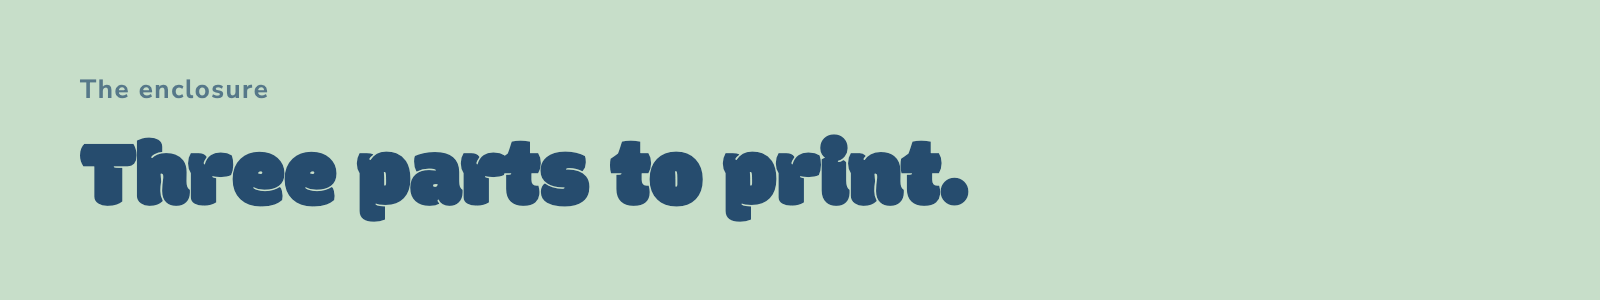
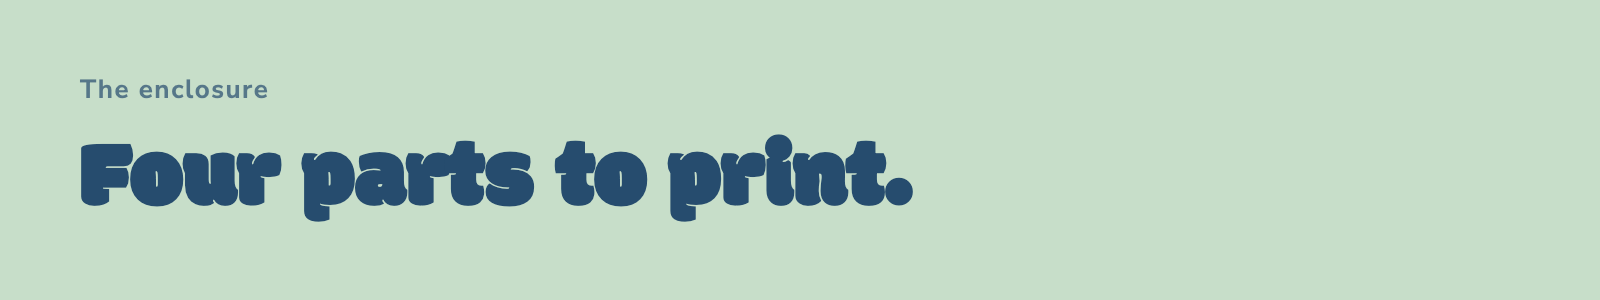
feat(prototype-v4): add the volume button, and say four parts everywhere
The part is a single object, `vol-button`, 2788 triangles, 28 x 15 x 28
mm: it is the cap that reaches the board's volume switch through the
shell. Checked before committing, because Shapr3D has already exported
the whole assembly into files that were meant to hold one body.

Adding it made the repository say "three parts" in four places, one of
them a rendered image. The table gains a row, the two sentences and the
banner now say four. The banner is re-rendered from the same source as
the others, so nothing else about it moves.

It ships as 3MF only, where the three other parts also have an STL and a
GLB. That is stated in the table rather than left for the reader to
notice.

Changed region(s): [[0.0312, 0.45, 0.625, 0.75]]

diff --git a/README.md b/README.md
@@ -1,6 +1,6 @@
-![The Open Music Box — your child puts a card down, the story starts.](docs/images/hero.png)
+![The Open Music Box: your child puts a card down, the story starts.](docs/images/hero.png)
 
-[![Join the Discord — questions, print results, ideas for the next version.](docs/images/discord.png)](https://discord.gg/5sUnQ553Af)
+[![Join the Discord: questions, print results, ideas for the next version.](docs/images/discord.png)](https://discord.gg/5sUnQ553Af)
 
 The MusicBox is a screen-free audio player for children. The child places an NFC card on top and the story or the music starts. No subscription, no account, no screen. Your music and your stories stay yours, on standard NFC cards, and every part can be replaced.
 
@@ -10,36 +10,37 @@ This is the enclosure of the V4 prototype of The Open Music Box project, designe
   <img src="docs/images/musicbox-loop.gif" alt="The MusicBox, card going in and out" width="420">
 </p>
 
-![How it works — place the card, the story starts.](docs/images/how-it-works.png)
+![How it works: place the card, the story starts.](docs/images/how-it-works.png)
 
 From your phone, you add your music and your stories, you build playlists and you link each one to an NFC card. Then the child takes over: place a card on the MusicBox and it plays, take it off and it stops. Four buttons for volume and tracks, nothing else to learn. It works without internet, in the bedroom, in the car or at the grandparents.
 
-![The enclosure — three parts to print.](docs/images/the-enclosure.png)
+![The enclosure: four parts to print.](docs/images/the-enclosure.png)
 
-The V4 enclosure is designed around the HermitX development board: an all-in-one ESP32-S3 board that ships with the NFC antenna, a 3 W speaker and an NTAG215 card. It prints in three parts, provided as STL and 3MF:
+The V4 enclosure is designed around the HermitX development board: an all-in-one ESP32-S3 board that ships with the NFC antenna, a 3 W speaker and an NTAG215 card. It prints in four parts:
 
 | Part | Files | What it is |
 |---|---|---|
 | **Body** | `TMB prototype V4 - body.{stl,3mf,glb}` | The main shell that holds the board and the speaker |
 | **Top** | `TMB prototype V4 - top.{stl,3mf,step,glb}` | The lid with the card slot |
 | **Insert** | `TMB prototype V4 - insert.{stl,3mf,glb}` | The card holder |
+| **Volume button** | `TMB prototype V4 - vol.3mf` | The cap that reaches the board’s volume switch through the shell. 3MF only for now, no STL |
 
 For the body, print the 3MF rather than the STL. It is a multi-material file: the side window is meant to be printed in a transparent filament so the light of the LEDs shows through, and the inner fins in a dark filament so that light does not bleed from one LED to the next. The STL is the single-material fallback, for slicers or workflows that need it.
 
 Print settings used on the prototype: Prusa MK4S, 0.4 mm nozzle, 0.2 mm layers, PLA.
 
-![Step by step — build your own MusicBox.](docs/images/step-by-step.png)
+![Step by step: build your own MusicBox.](docs/images/step-by-step.png)
 
-1. Print the three parts.
+1. Print the four parts.
 2. Get the HermitX development board and the few parts listed in the [BOM](https://theopenmusicbox.com/en/build/hardware/prototype/).
 3. Flash the firmware straight from your browser, nothing to install: [Flash the firmware](https://theopenmusicbox.com/en/build/flash).
 4. Install the app, add your music and stories, link them to NFC cards.
 
 Everything you need is in the [full build guide](https://theopenmusicbox.com/en/build), BOM and wiring included.
 
-This is a prototype enclosure and it is still evolving. Print results, photos and feedback are very welcome — open an [issue](https://github.com/The-Open-Music-Box/enclosure/issues) or come to the Discord.
+This is a prototype enclosure and it is still evolving. Print results, photos and feedback are very welcome. Open an [issue](https://github.com/The-Open-Music-Box/enclosure/issues) or come to the Discord.
 
-![Community — follow the project.](docs/images/follow.png)
+![Community: follow the project.](docs/images/follow.png)
 
 | | | | | | | |
 |:-:|:-:|:-:|:-:|:-:|:-:|:-:|
